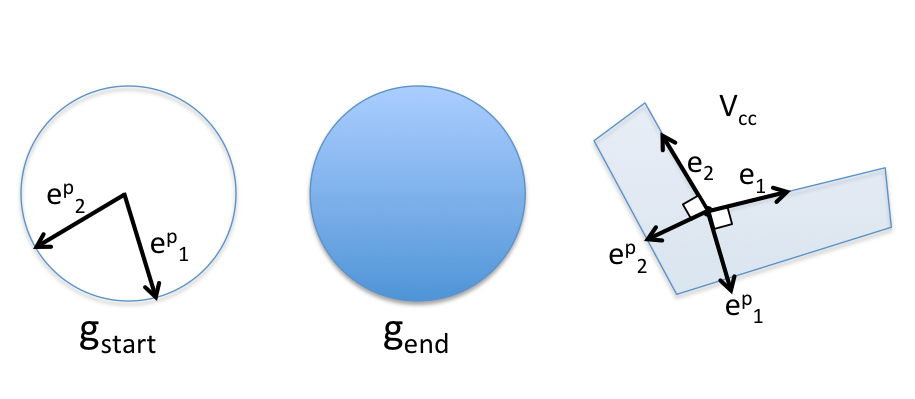
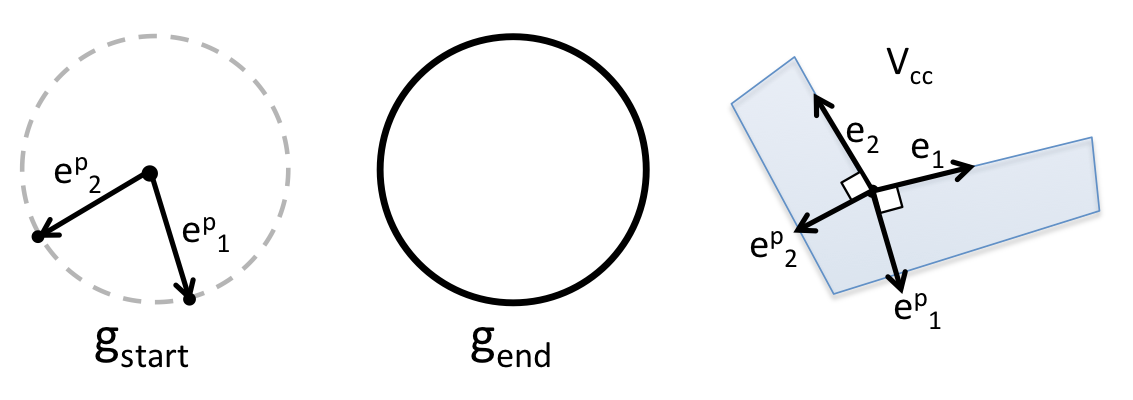
LOOK INTO MY EYES kaskade

diff --git a/AISearchChapter.tex b/AISearchChapter.tex
@@ -137,54 +137,66 @@ To understand how the set of gravity vectors is reduced, some terminology must f
 
 \myfigure{width=0.5\linewidth}{edgeDefinition}{A concave vertex $V_{c}^1$ and its two corresponding outward edge vectors $\vec{e}_1$ and $\vec{e}_2$}
 
-We start with a full sphere of possibilities to sample $g_{start}$ and $g_{end}$ from, as shown below:
+We start with a full Gaussian circle of possibilities to sample $g_{start}$ and $g_{end}$ from, as illustrated in Figure \ref{restriction1}.
 
 \myfigure{width=0.8\linewidth}{restriction1}{The initial set of possible vectors to sample $g_{start}$ and $g_{end}$ from.}
 
-We first restrict the possible values of $g_{start}$. We would like $g_{start}$ to be a vector that does not induce motion of the particle; this ensures a turn that ends in $g_{start}$ does not require simulation once the turn ends. Simultaneously, we would also like any defined turn to spend the maximum amount of time inducing motion of the particle.
+We first restrict the possible values of $g_{start}$. We define $g_{start}$ as a vector that does not produce motion of the particle but is as close as possible to producing motion.
 
-This means that $g_{start}$ is a vector that does not produce motion of the particle but is as close as possible to producing motion. There are only two vectors that satisfy these conditions -- the perpendicular vectors to $\vec{e}_1$ and $\vec{e}_2$.
+If $g_{start}$ satisfies these two conditions, two benefits arise. The first is that if $g_{start}$ does not induce motion of the particle, a turn that ends in $g_{start}$ does not require simulation once the turn ends. This will be greatly useful for our solution post-processor. The second benefit is that any turn defined with $g_{start}$ spends the maximum amount of time inducing motion of the particle.
+
+There are only two vectors that satisfy these two conditions -- the perpendicular vectors to $\vec{e}_1$ and $\vec{e}_2$ that point into the workpiece as illustrated in Figure \ref{restriction2}.
 
 \myfigure{width=0.8\linewidth}{restriction2}{$g_{start}$ is reduced to one of the two perpendicular vectors}
 
-Our second restriction is that $g_{end}$ must be a vector that produces motion of the particle while simultaneously keeping the particle on the incident edge of the concave vertex. This produces two quarter-circle segments of possibilities for $g_{end}$, each of which are defined by a incident edge and the perpendicular vector to that edge.
+Our second restriction is that $g_{end}$ must be a vector that produces motion of the particle while simultaneously keeping the particle on either incident edge of the concave vertex. This produces two quarter-circle segments of possibilities for $g_{end}$, each of which are defined by a incident edge and the perpendicular vector to that edge as illustrated in Figure \ref{restriction3}.
 
 
 \myfigure{width=0.8\linewidth}{restriction3}{$g_{end}$ is reduced to vectors that produce motion while keeping the particle on the incident edge}
 
-This leaves two arcs of gravity vectors from which $g_{end}$ can be selected.
+This leaves two arcs of gravity vectors from which $g_{end}$ can be selected. It is important to note that once $g_{start}$ is selected, $g_{end}$ is selected from the arc of vectors that borders $g_{start}$ in order to produce turns that maximize motion of the particle.
 
 	\subsection{Ideal Successor Function}
 
-The ideal successor function produces the maximum set of ``reachable'' concave vertices from a given input concave vertex (and the actions to achieve those states).
+The ideal successor function produces the set of all ``reachable'' concave vertices from a given input concave vertex (and the actions to achieve those states).
 
-Unfortunately, there are an infinite number of turns possible from each concave vertex, for $g_{end}$ can be selected from a continuous range of vectors. Clearly enumerating through every possible turn at every concave vertex is not possible.
+Unfortunately there are an infinite number of turns possible from each concave vertex, since $g_{end}$ can be selected from a continuous range of vectors. Clearly enumerating through every possible turn at every concave vertex is not possible.
 
 	\subsection{Sampling}
 
-To overcome this difficulty, we will instead sample from the continuous range of $g_{end}$ vectors and produce a limited number of turns. Each sample from this $g_{end}$ space produces a turn, which can be simulated with our transition function to produce a settled state.
+To overcome this difficulty, we will instead sample from the continuous range of $g_{end}$ vectors and produce a finite number of turns. Ideally the set of concave vertices produced by these sampled turns would be identical to the set achieved by the full enumeration of the sampling space. This is not likely to happen in practice, but with careful design we can discover the majority of this set.
 
-Sampling from this space produces a list of defined turns (or actions). Our successor function will then examine these actions in conjunction with an input concave vertex and produce the set of reachable concave vertices.
-
-Ideally this set of concave vertices produced by sampling would be identical to the set achieved by the full enumeration of the sampling space. This is not likely to happen in practice, but with careful design we can discover the majority of this set.
+%Each sample from the $g_{end}$ space produces a turn which can be simulated with our transition function to produce a settled state. These turns are the actions available to our agent. Our successor function will then examine these actions in conjunction with an input concave vertex and produce the set of reachable concave vertices.
 
 	\subsection{Representative Coverage Between Limits}
 
 The way we produce the majority of this set is to obtain a representative coverage over the possible kinetic paths out of a concave vertex. This is done by choosing a sampling method that produces the most diverse set of kinetic paths.
 
-If the possible range of $g_{end}$ vectors is defined between the limits of $0$ and $1$, then an initial best-guess sampling function may be to use uniform sampling in the form of $x$. Because acceleration effects compound with time however, this uniform sampling method produces many kinetic paths that are almost identical as can be seen below.
+If the possible range of $g_{end}$ vectors is defined between the limits of $0$ and $1$ and our interpolation function $f(x)$ is a function of this progress variable $x$, then an initial best-guess sampling function might be to use uniform sampling:
 
-\myfigure{width=0.5\linewidth}{samplingUniform}{The range of kinetic paths produced from 10 samples from each side at uniform sampling. Many of the sampled kinetic paths are nearly identical and thus visually appear as one.}
+$$
+f(x) = x
+$$
 
-A far better sampling function is to use $x^3$. This function produces many samples at the low end of the range of $g_{end}$ vectors and only a few at the higher end. These low-end samples produce accelerations that are minimally different, but since acceleration effects compound with time, they produce drastically different kinetic paths as can be seen below.
+With this sampling function, turns are selected uniformly between the limits of $g_{end}$. This sampling function unfortunately does not produce a uniform distribution of kinetic paths. This is primarly because acceleration effects compound with time; uniform sampling produces many kinetic paths that are almost identical. This is illustrated in Figure \ref{samplingUniform}.
 
-\myfigure{width=0.5\linewidth}{samplingCubed}{The range of kinetic paths produced from 10 samples at cubed sampling. Note the resulting kinetic paths evenly cover the space after the incident edge.}
+\myfigure{width=0.5\linewidth}{samplingUniform}{The range of kinetic paths produced from 10 per side with uniform sampling. Many of the sampled kinetic paths are nearly identical and thus visually appear as one.}
+
+A far better sampling function is to use cubic sampling:
+
+$$
+f(x) = x^3
+$$
+
+This function produces many samples near the lower bound of $g_{end}$ vectors and only a few samples near the upper bound. These low-end samples produce accelerations that are minimally different, but since acceleration effects compound with time, they produce drastically different kinetic paths. This is illustrated in Figure \ref{samplingCubed}.
+
+\myfigure{width=0.5\linewidth}{samplingCubed}{The range of kinetic paths produced from 6 samples per side with cubed sampling. Note the resulting kinetic paths evenly cover the space after the incident edge.}
 
 With this sampling function, we can obtain better coverage with lower computational cost.
 
 	\section{Complete Formulation}
 
-Now we have all the pieces to implement A.I. search. Our state is defined as the concave vertex the particle rests in (or workpiece exit). Our successor function samples from an available range of actions to produce a reasonable set of reachable concave vertices. Simply combining these two definitions together can produce an algorithm that discovers a sequence of actions to rotate a water particle out of a workpiece.
+Now we have all the pieces to implement A.I. search. Our state is defined as the concave vertex the particle rests in (or workpiece exit). Our successor function samples from an available range of actions to produce a representative set of reachable concave vertices. Simply combining these two definitions together can produce an algorithm that discovers a sequence of actions to rotate a water particle out of a workpiece.
 
 	\subsection{Graph Search}
 
@@ -221,21 +233,23 @@ The second graph reduction is implemented directly in the successor function. Wh
 
 By doing so, our successor function produces the optimal reduced set of concave vertices reachable from a given state. This graph reduction enqueues fewer plans onto the fringe, reducing the memory overhead and improving performance.
 
-These two graph reductions excel in workpieces with finely-tesselated concave sections. Here the connectivity graph is highly connected and contains many cycles. Without graph reductions, tree search would spend a considerable amount of time expanding all the concave vertices multiple times.
+%These two graph reductions excel in workpieces with finely-tesselated concave sections. Here the connectivity graph is highly connected and contains many cycles. Without graph reductions, tree search would spend a considerable amount of time expanding all the concave vertices multiple times.
 
-\myfigure{width=0.5\linewidth}{hemisphereSection}{A tesselated concave section. The draining graph for a workpiece like this is highly connected and cyclic.}
+%\myfigure{width=0.5\linewidth}{hemisphereSection}{A tesselated concave section. The draining graph for a workpiece like this is highly connected and cyclic.}
 
 \section{Cost}
 
-The uniform cost graph search algorithm we use ensures the plan produced is optimal in cost. Our definition of cost however is very flexible and can be modified according to different manufacturing priorities.
+The uniform cost graph search algorithm we use ensures the plan produced is optimal in cost. This is because the goal check for a partial plan is performed after the plan is dequeued from the priority queue. When a partial plan is dequeued from a priority queue that is ranked by cost, we are guaranteed that no other plan has a lower cost. This guarantee of optimality is the foundation of uniform cost and A* search.
+
+Our definition of cost however is very flexible and can be modified according to different manufacturing priorities.
 
 		\subsubsection{Time}
 
-The primary concern in manufacturing is often the processing time for a given procedure. In this case, the plans enqueued into the fringe are ordered by the total backward time to execute that plan. This ensures that when we dequeue a plan that ends in the goal, it has the lowest total time out of any plan on the fringe (ensuring optimality in time).
+The primary concern in manufacturing is often the processing time for a given procedure. In this case, the plans enqueued into the fringe are ordered by the time needed to execute that plan. This total time includes the sum of all turn durations as well as the time needed to wait for particles to settle. Enqueuing plans by this value ensures that when we dequeue a plan that ends in the goal, it has the lowest total time out of any plan on the fringe (ensuring optimality in time).
 
 		\subsubsection{Energy}
 
-Another common concern in manufacturing is the energy required for a given procedure. If energy is the optimization goal, plans can be instead enqueued by the estimated total amount of energy required to execute that series of turns.
+Another concern in manufacturing is the energy required for a given procedure. If energy is the optimization goal, plans can be instead enqueued by the estimated total amount of energy required to execute that series of turns.
 
 
 There are many ways to estimate the amount of energy required to execute a series of turns. The exact details are dependent on the fixture setup and associated motor; we present three simple models of energy estimation.
@@ -248,25 +262,29 @@ This model would be appropriate if the workpiece was well balanced in a fixture 
 
 		\subsubsection{Energy - Workpiece Center of Gravity}
 
-Another model for energy is based on the work the motor has to perform against gravity. If the workpiece's center of gravity is positioned far away from the center of rotation, the workpiece is unbalanced in the fixture. Turns that raise the center of gravity will produce counter-torques, will turns that lower the center of gravity will produce added acceleration.
+Another model for energy is based on the work the motor has to perform against gravity. If the workpiece's center of gravity is positioned far away from the center of rotation, the workpiece is unbalanced in the fixture. Turns that raise the center of gravity will produce counter-torques, whereas turns that lower the center of gravity will produce added acceleration.
 
 If this model is more appropriate for the fixture setup, the plans can be enqueued onto the fringe based on the integrated change in height for the center of gravity.
 
 		\subsubsection{Energy - Acceleration And Deceleration}
 
-Finally, if the workpiece is well balanced and friction in the rotator is low, the most appropriate model may be one based on acceleration and deceleration of the workpiece. While the total number of accelerations commonly scales with the total angle, these two properties are not necessarily the same.
+Finally, if the workpiece is well balanced and friction in the rotator is low, the majority of energy loss will be due to acceleration and deceleration of the workpiece. In this case, the most appropriate model for energy cost may be one based on the total number of turns in the plan.
 
-In this case, plans can be enqueued based on their total acceleration change.
+This contrasts with the energy model of total angle; while the total number of turns in a plan commonly scales with the total angle of a plan, these two properties are not necessarily the same.
 
 	\subsection{Solution Post Processing}
 
 A full solution is defined as the sequence of gravity transitions to drain the workpiece. The graph search algorithm returns a list of gravity turns from each concave vertex to drain the workpiece; the only issue is that the $g_{end}$ from one turn rarely matches the $g_{start}$ of the following turn.
 
-In order to rectify this situation and produce a full control sequence, our implementation contains a solution post-processor that stitches together these disparate turns and creates interpolations between one turn's $g_{end}$ and the next turn's $g_{start}$. We refer to these turns as ``setup'' turns, for they prepare the workpiece's orientation prior to the next stage of particle movement.
+In order to rectify this situation and produce a full control sequence, our implementation contains a solution post-processor that stitches together these disparate turns and creates interpolations between one turn's $g_{end}$ and the next turn's $g_{start}$. We refer to these turns as ``setup'' turns, for they transition the workpiece's orientation from the previous action ($A=i$) to the beginning of the next action ($A=i + 1$).
 
-These ``setup'' turns never induce motion of the particle; this is because only one particle is simulated at a time and the range of vectors from $g_{end}^{t=1}$ to $g_{start}^{t=2}$ does not produce motion. The latter cause is guaranteed because a particle only settles when the terminal acceleration field $g_{end}$ points ``into'' a concave vertex. Since the $g_{start}$ of the next turn is defined as one of the outermost vectors that does not produce particle motion, a sweep from $g_{end}^{t=1}$ to $g_{start}^{t=2}$ never produces an acceleration field that induces movement of the particle.
+These ``setup'' turns never induce motion of the particle; this is because only one particle is simulated at a time and the range of vectors from $g_{end}^{A=i}$ to $g_{start}^{A=i + 1}$ does not produce motion.
 
-\myfigure{width=0.7\linewidth}{setupturn}{The geometric relationship between $g_{end}^{t=1}$ and $g_{start}^{t=2}$ as it relates to the guarantee that a setup turn does not induce motion}
+We arrive at this guarantee with the following reasoning. A particle only settles when the terminal acceleration field $g_{end}$ points ``into'' a concave vertex. Since the $g_{start}$ of the next turn is defined as one of the outermost vectors that \emph{also} does not produce particle motion, a sweep from $g_{end}^{A=i}$ to $g_{start}^{A=i + 1}$ never produces an acceleration that induces movement of the particle.
+
+When simulating multiple particles, this guarantee no longer holds. We present a further reduction of the action space in Chapter \ref{multipleExtension} to restore this guarantee when working with multiple particles.
+
+\myfigure{width=0.7\linewidth}{setupturn}{The geometric relationship between $g_{end}^{A=i}$ and $g_{start}^{A=i + 1}$ as it relates to the guarantee that a setup turn does not induce motion}
 
 These ``setup'' turns can be seen during the solution animation process in our implementation which is linked in the results chapter.
 

diff --git a/multipleExtensionChapter.tex b/multipleExtensionChapter.tex
@@ -1,4 +1,4 @@
-\chapter{Extension to Multiple Particles}
+\chapter{Extension to Multiple Particles}\ref{multipleExtension}
 
 We now present an extension of this work for draining multiple particles out of a workpiece. The initial adaption to our approach is fairly trivial, but the two heuristics we present shortly afterwards dramatically improve search performance.
 
